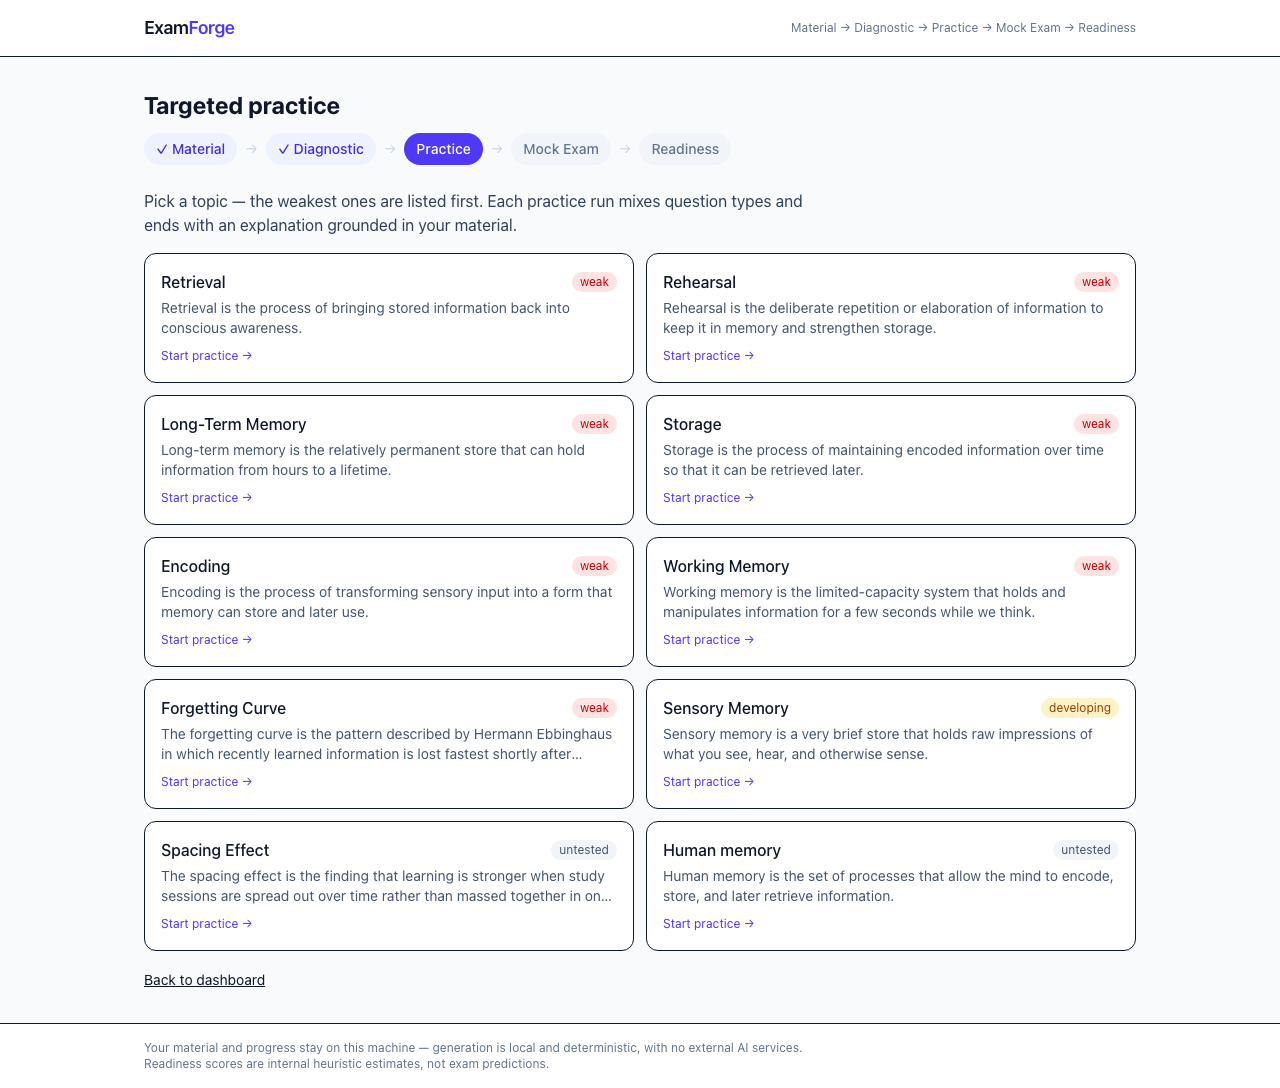
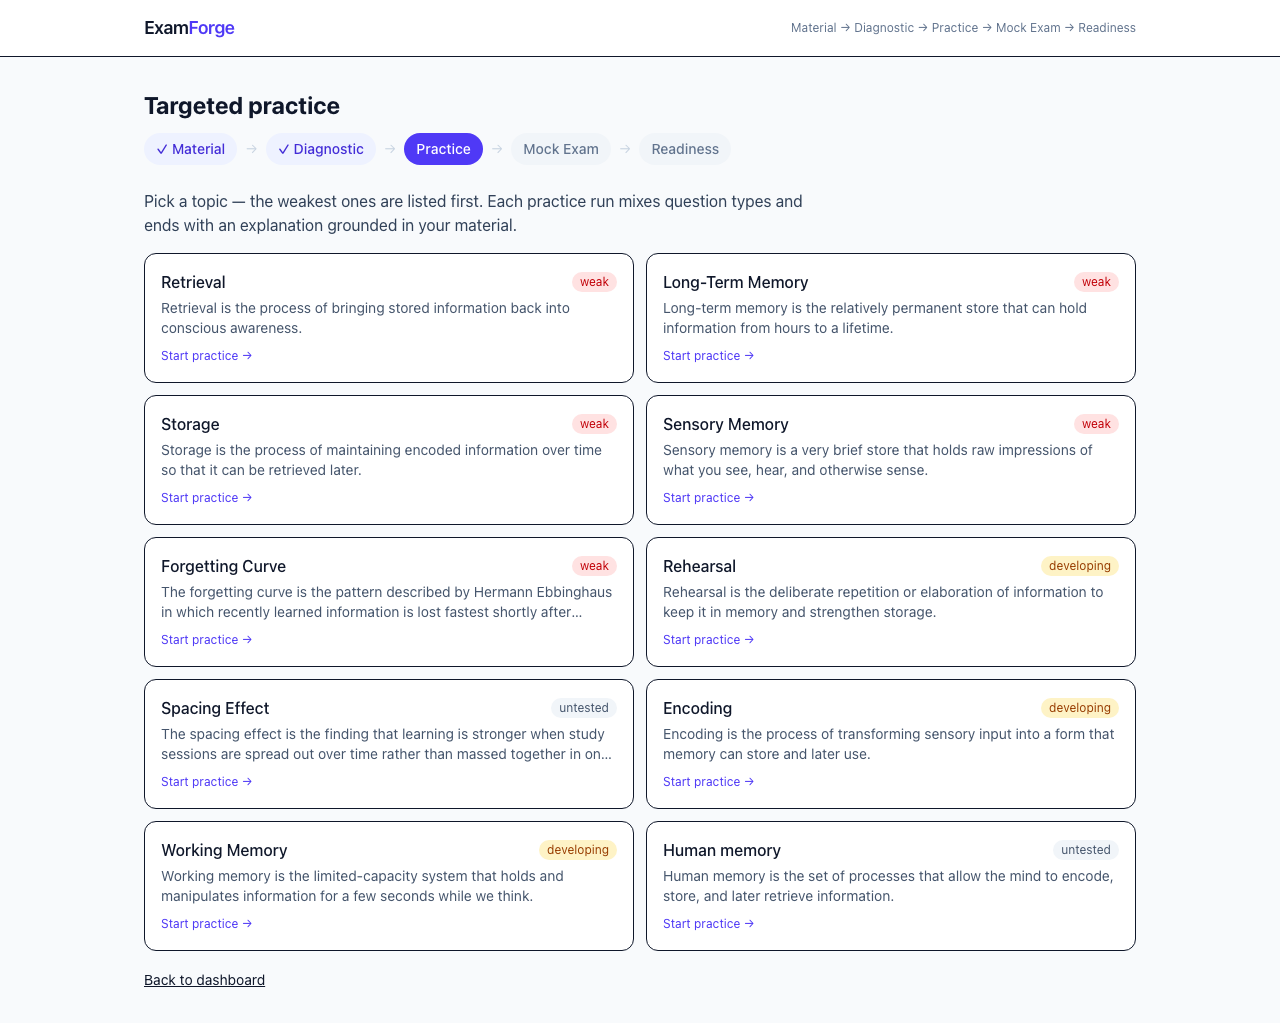
ui: simplify privacy disclosure (#21)

diff --git a/tests/e2e/smoke.spec.ts b/tests/e2e/smoke.spec.ts
@@ -24,6 +24,25 @@ async function answerCurrentQuestion(page: Page) {
   }
 }
 
+/** The approved Home privacy disclosure, verbatim. */
+const HOME_PRIVACY_NOTE =
+  "Privacy note: ExamForge runs entirely on your machine. Concepts, questions and feedback are generated " +
+  "locally and deterministically — your material is never sent to an external service.";
+
+test("home shows the approved privacy note and no global footer", async ({ page }) => {
+  await page.goto("/");
+
+  // The disclosure stays on the Home page with exactly the approved wording. The whole-text
+  // match also guards against re-adding the removed "external AI service" / "no API key is
+  // needed" clauses or appending a substitute sentence.
+  const privacyNote = page.getByText(/^Privacy note:/);
+  await expect(privacyNote).toBeVisible();
+  await expect(privacyNote).toHaveText(HOME_PRIVACY_NOTE);
+
+  // The former global footer (privacy + readiness disclaimers) is gone from the root layout.
+  await expect(page.locator("footer")).toHaveCount(0);
+});
+
 test("bundled demo: material -> diagnostic -> practice -> mock -> readiness", async ({ page }) => {
   test.setTimeout(180_000);
 

diff --git a/src/app/layout.tsx b/src/app/layout.tsx
@@ -23,12 +23,6 @@ export default function RootLayout({ children }: { children: React.ReactNode }) 
           </div>
         </header>
         <main className="flex-1 mx-auto w-full max-w-5xl px-4 py-8">{children}</main>
-        <footer className="border-t bg-white">
-          <div className="mx-auto max-w-5xl px-4 py-4 text-xs text-slate-500 flex flex-wrap gap-x-4 justify-between">
-            <span>Your material and progress stay on this machine — generation is local and deterministic, with no external AI services.</span>
-            <span>Readiness scores are internal heuristic estimates, not exam predictions.</span>
-          </div>
-        </footer>
       </body>
     </html>
   );

diff --git a/src/app/page.tsx b/src/app/page.tsx
@@ -185,8 +185,8 @@ export default function HomePage() {
       )}
 
       <p className="text-xs text-slate-500 max-w-3xl mx-auto text-center">
-        Privacy note: ExamForge runs entirely on your machine. Concepts, questions and feedback are generated locally
-        and deterministically — your material is never sent to an external AI service, and no API key is needed.
+        Privacy note: ExamForge runs entirely on your machine. Concepts, questions and feedback are generated
+        locally and deterministically — your material is never sent to an external service.
       </p>
 
       <section className="space-y-3">
